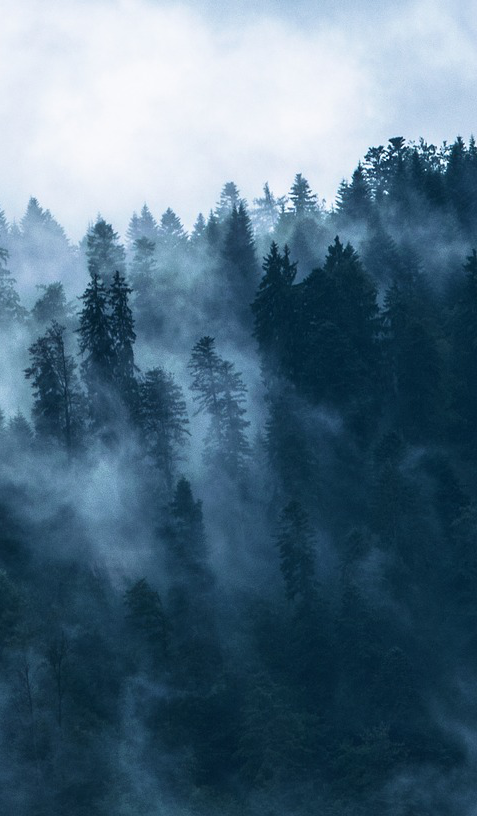
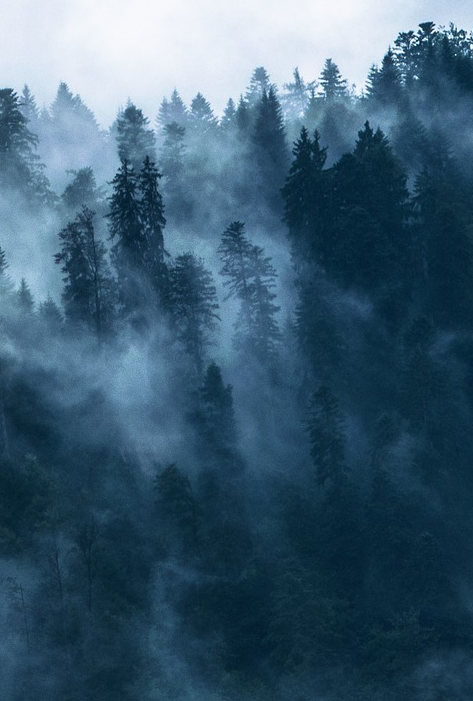
resized inverted photos

diff --git a/src/index.html b/src/index.html
@@ -28,8 +28,7 @@
                 <h1>Pine Jewelry</h1>
                 <p class="hand-crafted">Hand crafted jewelry made with <br> love in Flagstaff, Arizona</p>
                 <div>
-                   <img class="play-btn" src=""
-                  
+                   <img class="play-btn" src="assets/media/playbutton.png">
                 </div>
                 <p class="play">Play Video<p>
                 <p class="shop cta">Shop on Etsy</p>

diff --git a/src/assets/scss/app.scss b/src/assets/scss/app.scss
@@ -75,10 +75,11 @@
 
 .shop {
     background-color: #bca64d;
-    font-size: 18px;
+    width: 320px;
+    font-size: 1.2em;
     font-weight: 600;
-    text-transform: uppercase;
-    letter-spacing: 2.2px;
+    letter-spacing: 2px;
     margin-top: 50px;
     padding: 15px 67px;
+    text-transform: uppercase;
 }
